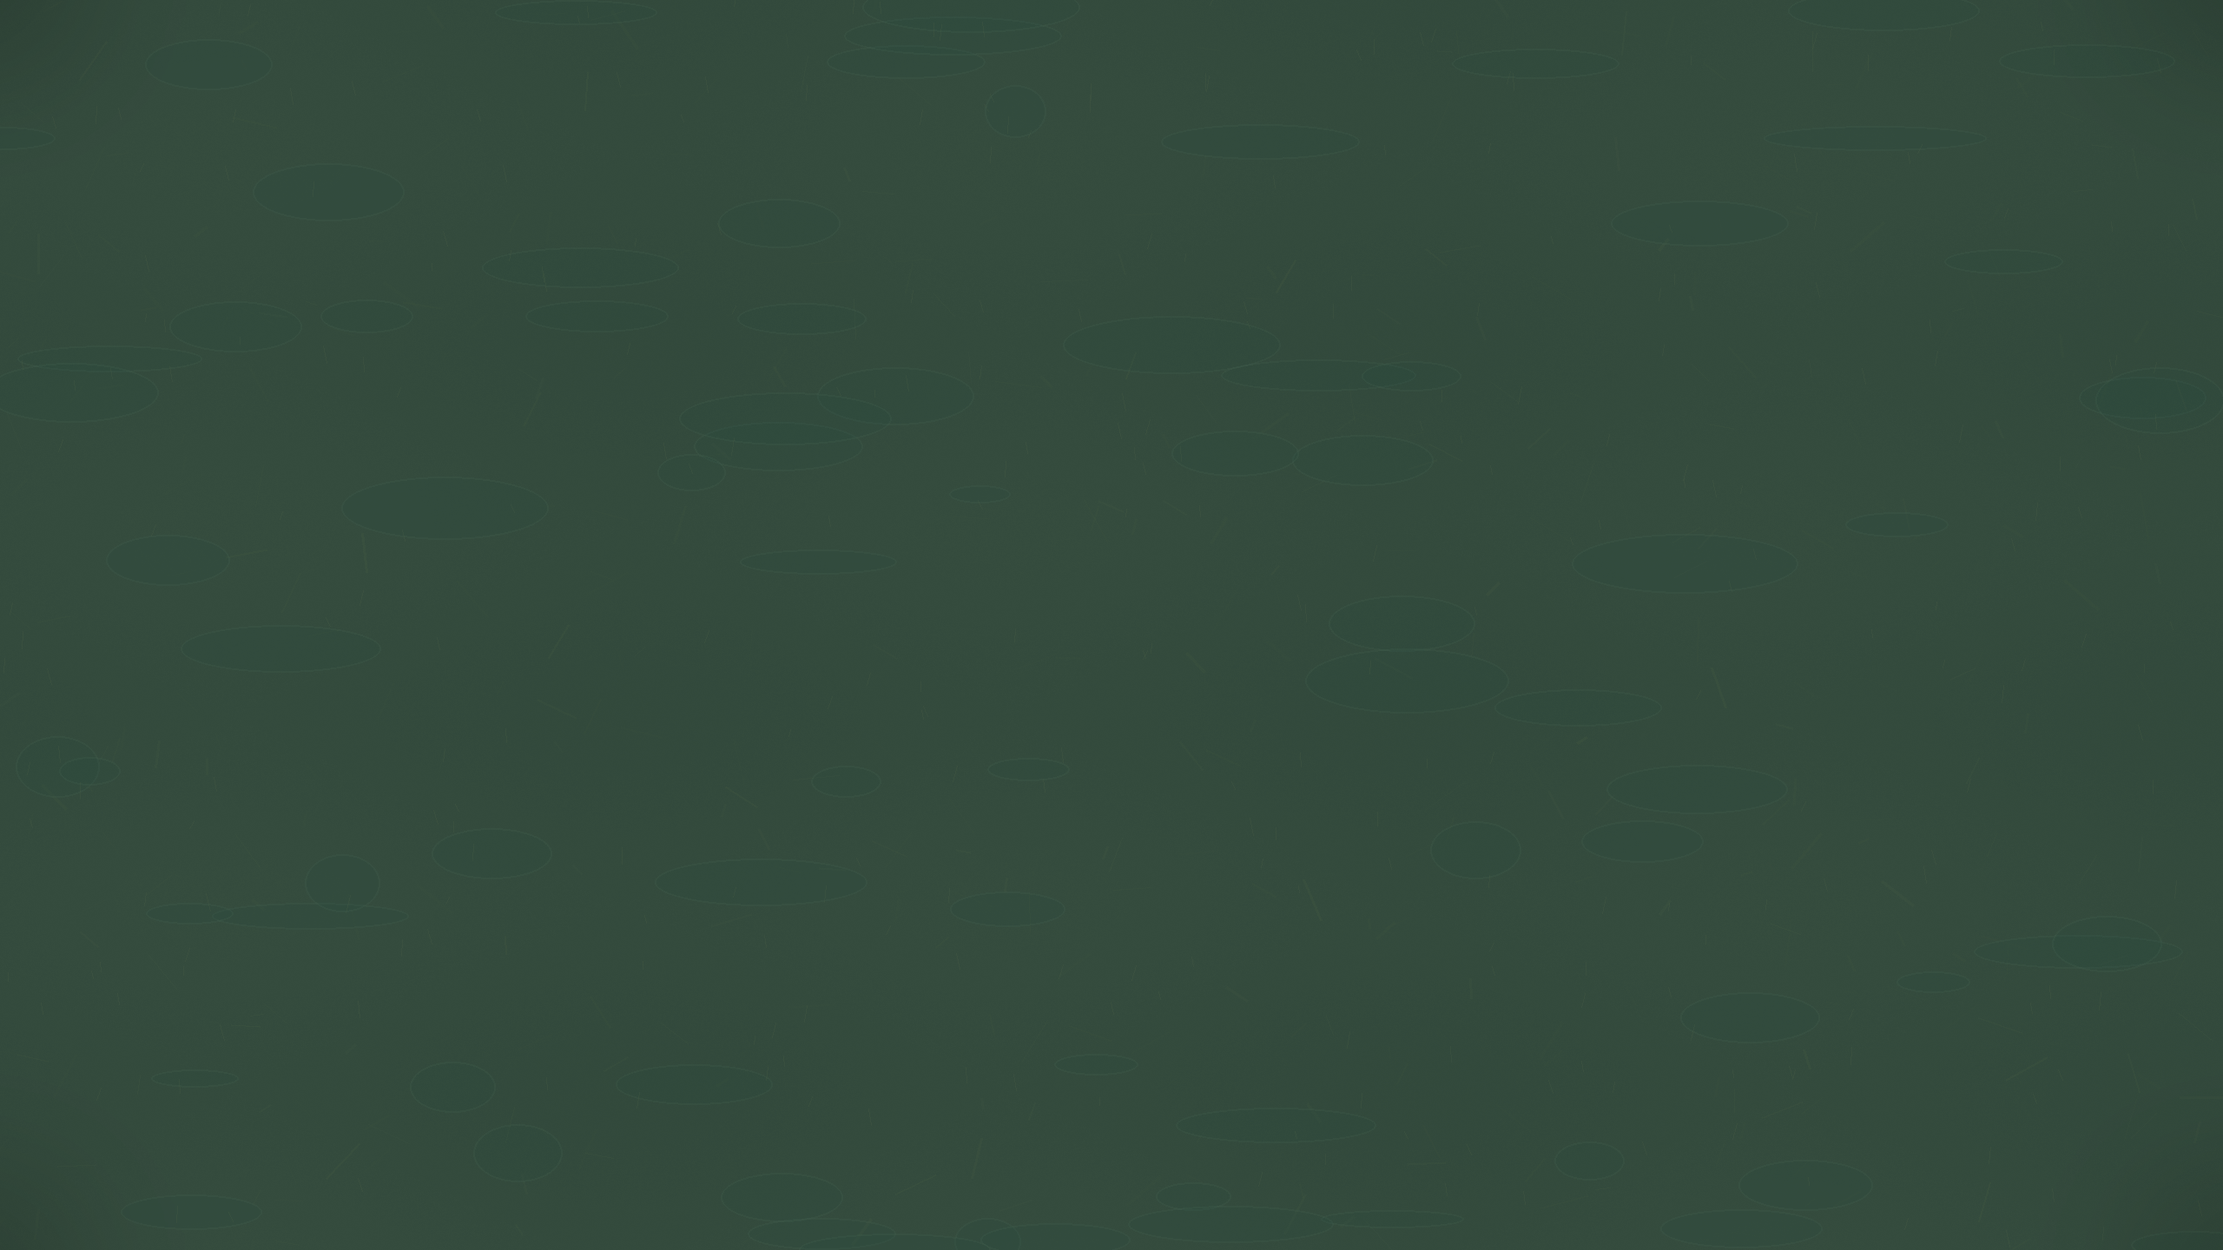
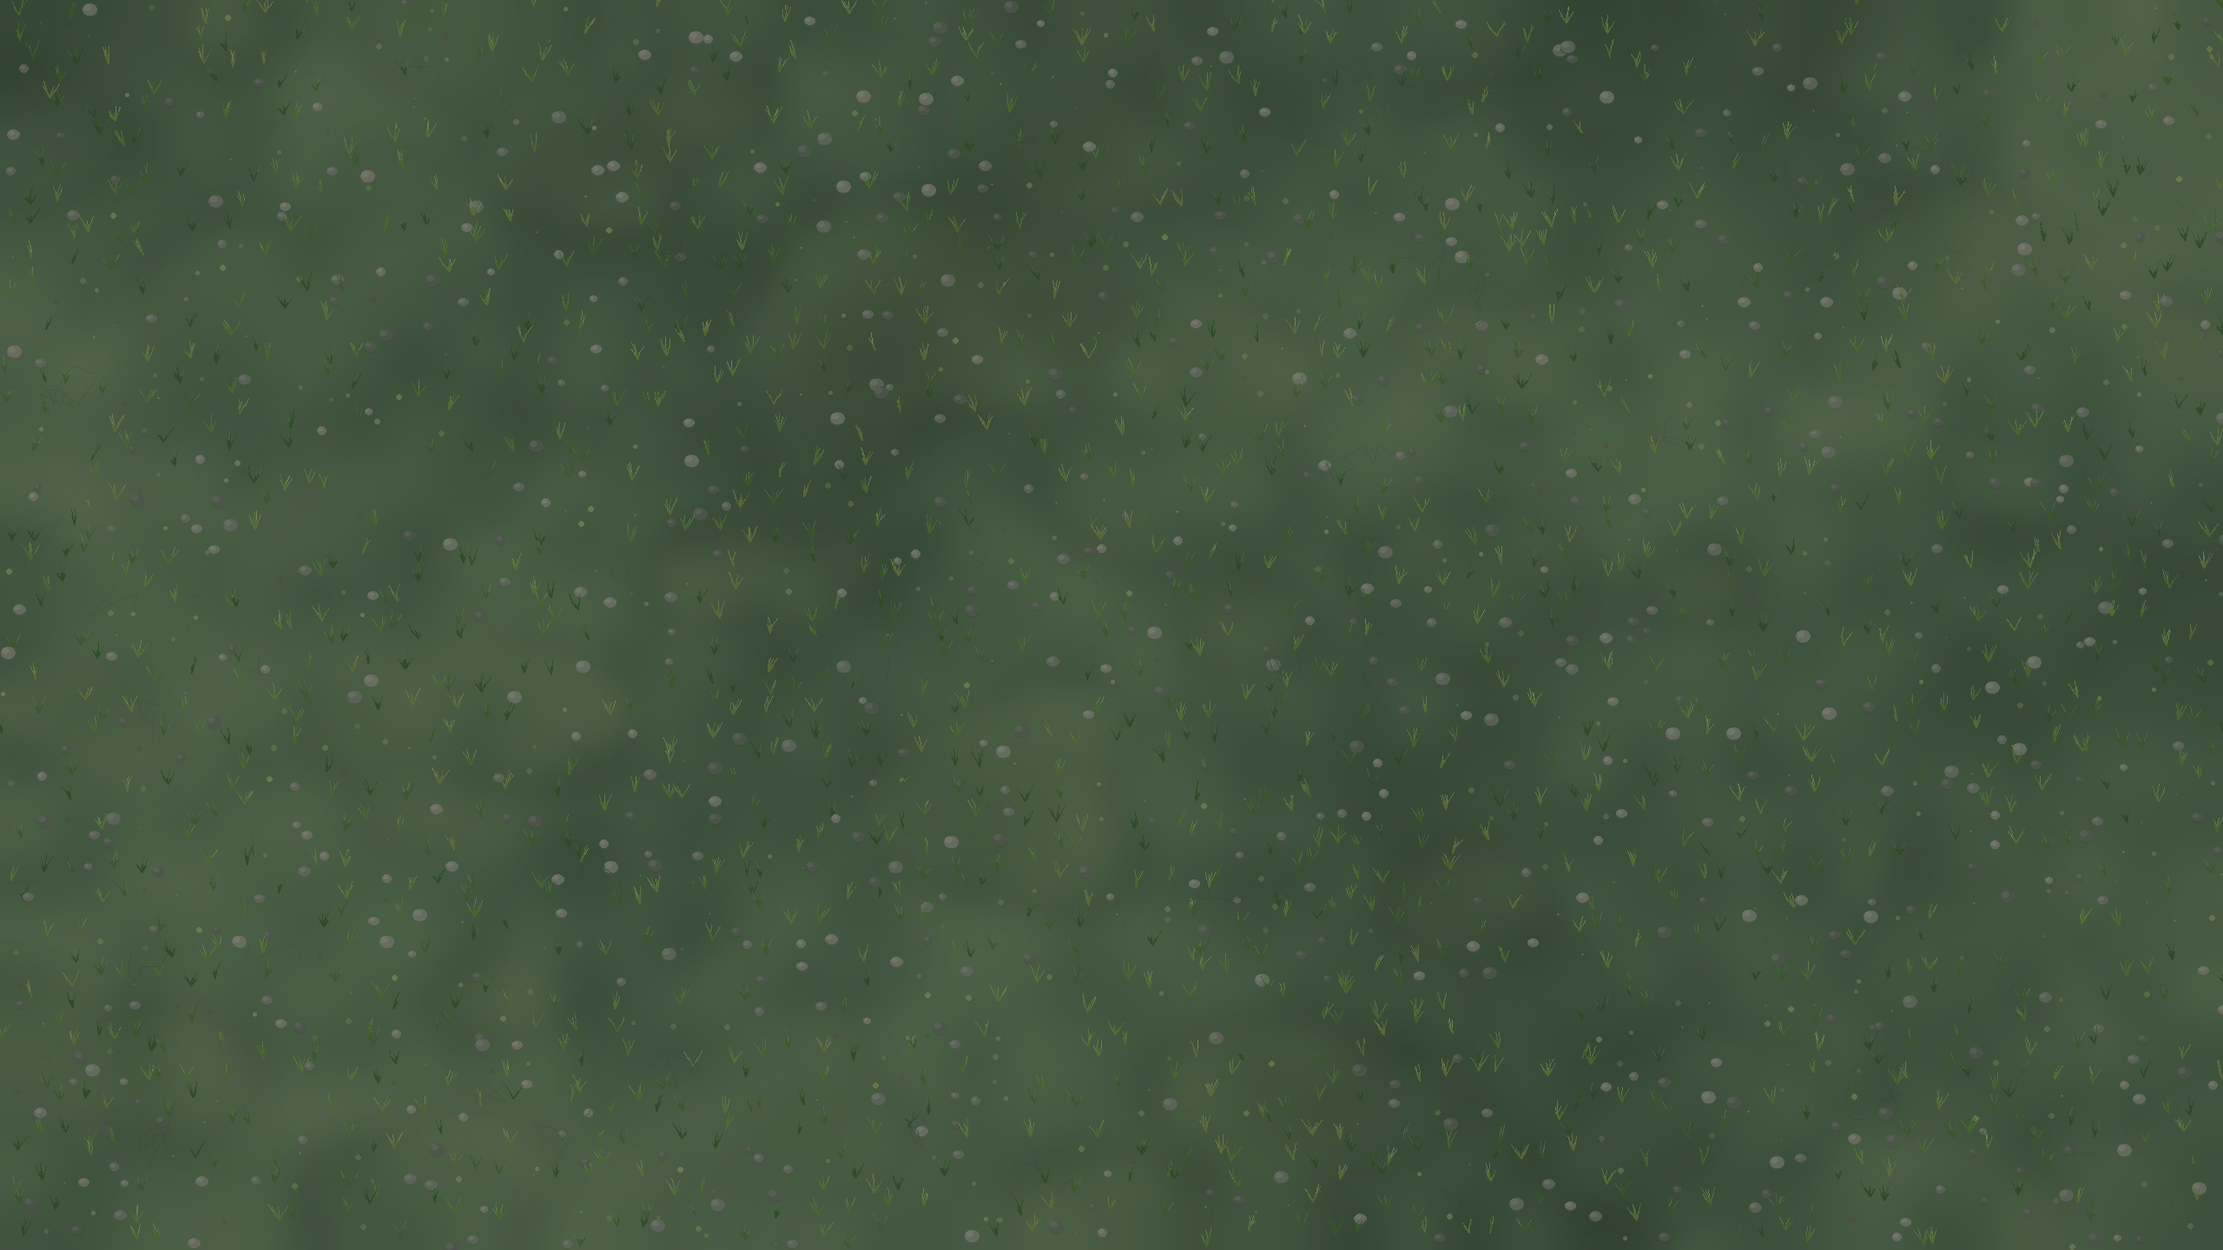
design(bg): живые плоские боевые фоны — мелкие камешки и травинки вместо тусклых полей
Переотрисовка 4 боевых фонов (2560x1440) по фидбеку: прежние плоские поля были
тухлые/однотонные. Новые остаются top-down (без крупных камней и ложной
перспективы), но получили равномерную мелкую наземную фактуру — мелкая галька,
травинки, сухие былинки, тонкие трещины, пятна мха/почвы, мраморный базовый тон.
Деталь намеренно мелкая и низкоконтрастная: иллюзии хождения по валунам нет,
персонаж/враги/снаряды читаются поверх. Генератор generate_detailed_flat_backgrounds.py;
прежние версии в build/bg_backup/flat_*. Проверено in-game (луг/дорога с героем и врагами).

diff --git a/tools/generate_detailed_flat_backgrounds.py b/tools/generate_detailed_flat_backgrounds.py
@@ -1,0 +1,207 @@
+"""Redraw the 4 combat backgrounds as lively flat top-down ground.
+
+User feedback (2026-06-12): the current flat backgrounds are dull (almost
+featureless colour fields). Make them pretty with SMALL pebbles and SMALL grass
+blades so the hero never looks like he is walking over big rocks — small ground
+detail only, evenly spread, low contrast so characters/enemies/projectiles read
+on top. Native 2560x1440, no tall objects, no false perspective shadows.
+
+Run from the project root:  python3 tools/generate_detailed_flat_backgrounds.py
+"""
+from __future__ import annotations
+
+import math
+import random
+from pathlib import Path
+
+from PIL import Image, ImageDraw, ImageFilter
+
+ROOT = Path(__file__).resolve().parents[1]
+BG_DIR = ROOT / "assets" / "backgrounds"
+W, H = 2560, 1440
+
+
+def clamp(v):
+    return max(0, min(255, int(v)))
+
+
+def shift(c, d):
+    return (clamp(c[0] + d), clamp(c[1] + d), clamp(c[2] + d))
+
+
+def mix(a, b, t):
+    return (clamp(a[0] + (b[0] - a[0]) * t), clamp(a[1] + (b[1] - a[1]) * t), clamp(a[2] + (b[2] - a[2]) * t))
+
+
+def value_noise(w, h, cells, seed, blur):
+    """Low-frequency mottling: small random image upscaled + blurred."""
+    rng = random.Random(seed)
+    small = Image.new("L", (cells, max(1, cells * h // w)))
+    small.putdata([rng.randint(0, 255) for _ in range(small.width * small.height)])
+    return small.resize((w, h), Image.BICUBIC).filter(ImageFilter.GaussianBlur(blur))
+
+
+def base_ground(palette, seed):
+    """Mottled biome base so it never reads as a flat colour field."""
+    base = palette["base"]
+    img = Image.new("RGB", (W, H), base)
+    px = img.load()
+    # two octaves of soft value mottling, tinted between dark/light biome tones
+    lo = value_noise(W, H, 9, seed, 60).load()
+    hi = value_noise(W, H, 40, seed + 1, 14).load()
+    dark = palette["dark"]
+    light = palette["light"]
+    for y in range(H):
+        for x in range(W):
+            t = (lo[x, y] / 255.0 - 0.5) * 0.85 + (hi[x, y] / 255.0 - 0.5) * 0.45
+            if t >= 0:
+                px[x, y] = mix(base, light, min(t, 1.0))
+            else:
+                px[x, y] = mix(base, dark, min(-t, 1.0))
+    return img
+
+
+def add_patches(img, palette, seed):
+    """Soft moss/soil patches — mid-scale colour variation, still flat."""
+    rng = random.Random(seed)
+    layer = Image.new("RGBA", (W, H), (0, 0, 0, 0))
+    d = ImageDraw.Draw(layer)
+    for _ in range(palette["patches"]):
+        cx, cy = rng.randint(0, W), rng.randint(0, H)
+        r = rng.randint(60, 150)
+        col = rng.choice(palette["patch_colors"])
+        d.ellipse((cx - r, cy - r * 0.7, cx + r, cy + r * 0.7), fill=col + (rng.randint(26, 54),))
+    img.alpha_composite(Image.alpha_composite(img.convert("RGBA"), layer.filter(ImageFilter.GaussianBlur(22))).convert("RGBA")) if False else None
+    base = img.convert("RGBA")
+    base.alpha_composite(layer.filter(ImageFilter.GaussianBlur(20)))
+    return base.convert("RGB")
+
+
+def pebble(d, x, y, r, col, rng):
+    """Tiny rounded stone: body + bottom-right shadow + top-left highlight."""
+    d.ellipse((x - r, y - r * 0.82 + 1, x + r, y + r * 0.82 + 2), fill=shift(col, -20) + (70,))  # contact shadow
+    d.ellipse((x - r, y - r * 0.82, x + r, y + r * 0.82), fill=col)
+    d.ellipse((x - r + 1, y - r * 0.82 + 1, x + r * 0.2, y), fill=shift(col, 12))  # top-left light
+    d.point((x - r // 3, y - r // 3), fill=shift(col, 22))
+
+
+def grass_tuft(d, x, y, col, rng, size):
+    """A few short blades fanning up — small."""
+    blades = rng.randint(3, 5)
+    for _ in range(blades):
+        ang = math.radians(rng.uniform(-38, 38))
+        ln = size * rng.uniform(0.7, 1.15)
+        tipx = x + math.sin(ang) * ln
+        tipy = y - math.cos(ang) * ln
+        midx = (x + tipx) / 2 + rng.uniform(-1.5, 1.5)
+        midy = (y + tipy) / 2
+        shade = shift(col, rng.randint(-18, 18))
+        d.line((x, y, midx, midy), fill=shift(col, -14), width=2)
+        d.line((midx, midy, tipx, tipy), fill=shade, width=1)
+
+
+def scatter_detail(img, palette, seed):
+    """Even small-detail layer: pebbles + grass + cracks + specks across the
+    whole arena on a jittered grid, so movement reads everywhere and nothing
+    clumps into a big rock."""
+    rng = random.Random(seed)
+    layer = Image.new("RGBA", (W, H), (0, 0, 0, 0))
+    d = ImageDraw.Draw(layer)
+    step = palette["grid"]
+    for gy in range(0, H, step):
+        for gx in range(0, W, step):
+            roll = rng.random()
+            x = gx + rng.randint(2, step - 2)
+            y = gy + rng.randint(2, step - 2)
+            if roll < palette["pebble_p"]:
+                r = rng.randint(*palette["pebble_r"])
+                pebble(d, x, y, r, rng.choice(palette["pebble_colors"]), rng)
+            elif roll < palette["pebble_p"] + palette["grass_p"]:
+                grass_tuft(d, x, y, rng.choice(palette["grass_colors"]), rng, palette["grass_size"])
+            elif roll < palette["pebble_p"] + palette["grass_p"] + palette["speck_p"]:
+                col = rng.choice(palette["speck_colors"])
+                rr = rng.randint(1, 3)
+                d.ellipse((x - rr, y - rr, x + rr, y + rr), fill=col + (rng.randint(70, 140),))
+    # hairline cracks / dry wisps
+    for _ in range(palette["cracks"]):
+        x, y = rng.randint(0, W), rng.randint(0, H)
+        col = palette["crack_color"]
+        pts = [(x, y)]
+        for _ in range(rng.randint(4, 8)):
+            x += rng.randint(-26, 26)
+            y += rng.randint(-26, 26)
+            pts.append((x, y))
+        d.line(pts, fill=col + (rng.randint(40, 80),), width=1)
+    # push the whole detail layer slightly into the ground for low contrast
+    r_, g_, b_, a_ = layer.split()
+    layer.putalpha(a_.point(lambda v: int(v * 0.82)))
+    img2 = img.convert("RGBA")
+    img2.alpha_composite(layer)
+    return img2.convert("RGB")
+
+
+def vignette(img):
+    v = Image.new("L", (W, H), 0)
+    ImageDraw.Draw(v).ellipse((-W * 0.18, -H * 0.18, W * 1.18, H * 1.18), fill=255)
+    v = v.filter(ImageFilter.GaussianBlur(220))
+    dark = Image.new("RGB", (W, H), (0, 0, 0))
+    return Image.composite(img, Image.blend(img, dark, 0.16), v)
+
+
+PALETTES = {
+    "field_meadow": {
+        "base": (96, 122, 60), "dark": (60, 84, 38), "light": (132, 158, 84),
+        "patches": 90, "patch_colors": [(78, 104, 46), (120, 146, 74), (84, 110, 52)],
+        "grid": 30, "pebble_p": 0.10, "grass_p": 0.46, "speck_p": 0.14,
+        "pebble_r": (3, 7), "pebble_colors": [(124, 116, 100), (110, 100, 84), (132, 122, 104)],
+        "grass_colors": [(96, 132, 54), (118, 152, 66), (78, 112, 44), (140, 164, 80)],
+        "grass_size": 16, "speck_colors": [(206, 196, 96), (228, 220, 150), (180, 90, 96)],
+        "cracks": 40, "crack_color": (60, 72, 38),
+    },
+    "field_dry_road": {
+        "base": (150, 116, 76), "dark": (112, 84, 52), "light": (180, 148, 104),
+        "patches": 80, "patch_colors": [(132, 100, 62), (168, 138, 96), (120, 92, 58)],
+        "grid": 28, "pebble_p": 0.20, "grass_p": 0.12, "speck_p": 0.18,
+        "pebble_r": (3, 7), "pebble_colors": [(140, 122, 96), (120, 104, 82), (132, 116, 92), (108, 92, 70)],
+        "grass_colors": [(150, 140, 78), (132, 120, 64), (120, 132, 70)],
+        "grass_size": 13, "speck_colors": [(180, 156, 112), (120, 96, 64), (200, 178, 130)],
+        "cracks": 120, "crack_color": (96, 70, 42),
+    },
+    "field_stone_garden": {
+        "base": (120, 122, 118), "dark": (92, 94, 92), "light": (152, 152, 146),
+        "patches": 80, "patch_colors": [(104, 116, 90), (138, 138, 132), (96, 110, 84)],
+        "grid": 26, "pebble_p": 0.24, "grass_p": 0.16, "speck_p": 0.14,
+        "pebble_r": (4, 9), "pebble_colors": [(150, 150, 144), (120, 120, 116), (168, 166, 158), (104, 106, 102)],
+        "grass_colors": [(104, 126, 70), (120, 140, 78), (92, 116, 64)],
+        "grass_size": 13, "speck_colors": [(150, 160, 110), (170, 168, 158), (110, 130, 86)],
+        "cracks": 150, "crack_color": (78, 80, 78),
+    },
+    "field_marsh": {
+        "base": (66, 86, 64), "dark": (40, 56, 42), "light": (96, 114, 84),
+        "patches": 100, "patch_colors": [(52, 70, 50), (84, 96, 66), (46, 62, 52), (74, 88, 58)],
+        "grid": 30, "pebble_p": 0.16, "grass_p": 0.40, "speck_p": 0.16,
+        "pebble_r": (4, 8), "pebble_colors": [(96, 100, 92), (78, 84, 76), (110, 112, 102)],
+        "grass_colors": [(72, 100, 56), (90, 116, 62), (58, 86, 50), (104, 124, 70)],
+        "grass_size": 18, "speck_colors": [(120, 140, 80), (150, 160, 96), (84, 70, 56)],
+        "cracks": 50, "crack_color": (44, 56, 44),
+    },
+}
+
+
+def build(name, palette):
+    seed = sum(name.encode())
+    img = base_ground(palette, seed)
+    img = add_patches(img, palette, seed + 5)
+    img = scatter_detail(img, palette, seed + 9)
+    img = vignette(img)
+    img.save(BG_DIR / f"{name}.png")
+    print(f"{name}: redrawn 2560x1440 detailed flat ground")
+
+
+def main():
+    for name, palette in PALETTES.items():
+        build(name, palette)
+
+
+if __name__ == "__main__":
+    main()

diff --git a/docs/design/systems/visual_style_assets.md b/docs/design/systems/visual_style_assets.md
@@ -63,11 +63,11 @@ System icons live in `assets/sprites/ui/icons/system/`: close, back, settings, a
 
 The 0.2 class weapon visual set was completed on 2026-06-11 for all 9 classes and 27 starting weapons. New class full-art PNGs live in `assets/sprites/characters/` (`assassin.png`, `ranger.png`, `doctor.png`, `chemist.png`, `knight.png`, `druid.png`) at `512x512` with transparent background and separated readable legs for future cutout/walk rig work.
 
-All weapon visuals live in `assets/sprites/weapons/` at `256x256` with transparent background. The active style target is polished cartoon dark fantasy: strong black silhouette, readable object shape at `40x40`, compact controlled glow, material detail, and no text/watermark/built-in UI frame. The 12 final additions for the full 3-weapons-per-class set are `shadow_daggers.png`, `venom_wire.png`, `storm_longbow.png`, `hunter_trap.png`, `plague_syringe.png`, `bone_saw.png`, `acid_flask.png`, `homunculus_vial.png`, `tower_shield.png`, `holy_flail.png`, `briar_staff.png`, and `raven_totem.png`.
+All weapon visuals live in `assets/sprites/weapons/` at `256x256` with transparent background. The active style target is polished cartoon dark fantasy: strong black silhouette, readable object shape at `40x40`, compact controlled glow, material detail, and no text/watermark/built-in UI frame. Weapon art v2 pass 2026-06-12 replaced the Knight trio (`long_spear.png`, `tower_shield.png`, `holy_flail.png`) with polished noble equipment, removed fallback texture links from weapon scenes, and reduced socket display scale across oversized weapons. The raw and socket QA sheets are `docs/design/previews/weapon_v2_assets_contact.png` and `docs/design/previews/weapon_v2_socket_contact.png`.
 
 Per-weapon socket/display notes are tracked in `docs/design/systems/characters_weapons.md` and the Design handoff task `docs/tasks/design_all_classes_three_weapons_visual_upgrade_task.md`.
 
 ## Screen And Map Backgrounds
 
 - `assets/backgrounds/route_map_backdrop.png` - 2560x1440 eerie neutral route map background. It should stay darker and calmer than combat arenas, with low-contrast fog in the central route column and heavier silhouettes pushed to the edges.
-- `assets/backgrounds/field_stone_garden.png`, `field_marsh.png`, `field_dry_road.png`, `field_meadow.png` - active 2560x1440 combat backgrounds. As of 2026-06-12 they are flat top-down low-contrast ground textures without tall rocks, bushes, false object shadows or perspective props, so characters and monsters read as walking on the surface rather than over painted objects.
+- `assets/backgrounds/field_stone_garden.png`, `field_marsh.png`, `field_dry_road.png`, `field_meadow.png` - active 2560x1440 combat backgrounds. Redrawn 2026-06-12 (`tools/generate_detailed_flat_backgrounds.py`) after user feedback that the prior flat fields were dull: still flat top-down (no tall rocks/bushes/false perspective shadows) but now lively with evenly-scattered SMALL ground detail — small pebbles, small grass tufts, dry wisps, hairline cracks, moss/soil patches and a mottled biome base. Detail is deliberately low-contrast and small-scale so the hero never reads as walking over big rocks and characters/enemies/projectiles stay on top. Previous featureless flat versions backed up to `build/bg_backup/flat_*.png`.

diff --git a/CHANGELOG.md b/CHANGELOG.md
@@ -4,13 +4,17 @@
 
 ## [Unreleased] — ветка dev
 
-Пока нет изменений.
+- Боевые фоны: переотрисованы в живую плоскую top-down фактуру с мелкими камешками и травинками (равномерно, низкий контраст) вместо тусклых однотонных полей; 2560x1440, без крупных камней/ложной перспективы.
+
+- Баланс классов: добавлен Godot budget harness `tools/balance_harness.gd`, отчет `build/balance_report.md`, профили solo/aoe/balanced+tank для 27 пар класс+оружие, auto budget tuning и smoke-проверка отклонения ≤ ±10% по solo и 5-target DPS.
 
 ## [0.1.2] — 2026-06-12
 
 - UI: тёплый рестайл интерфейса под D&D-таверну — рамки/панели/кнопки/окна из тёмного дерева и кожи с латунной окантовкой и заклёпками, системные иконки в тёплом золоте, без циановых самоцветов; светлый текст сохранён читаемым.
 
 - Артефакты: старый pictogram/пентаграммный набор заменен на 53 realistic epic D&D/tabletop raster magic item PNG (`256x256`, RGBA, transparent), с предметами по смыслу каждого artifact ID и QA-превью `assets/sprites/ui/icons/artifact_realistic_dnd_preview.png`.
+
+- Оружие v2: перерисованы `long_spear`, `tower_shield`, `holy_flail`, Рыцарь переведен на unarmed base sprite без встроенного копья/щита, все 27 weapon scenes теперь используют matching PNG и уменьшенный visual scale для лучшей читаемости персонажей.
 
 - Design overhaul: добавлен reusable fantasy UI texture kit (`assets/sprites/ui/frames/global/`, system icons), основные панели/кнопки/HUD/level-up/route nodes переведены на texture frames; 4 боевых фона заменены на плоские top-down 2560x1440 ground textures; добавлены отдельные motion profiles для 6 новых классов.
 
